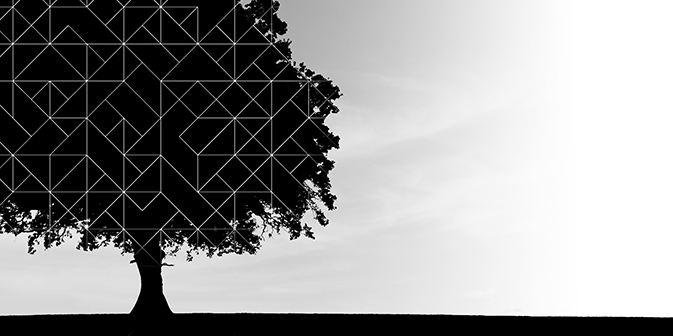
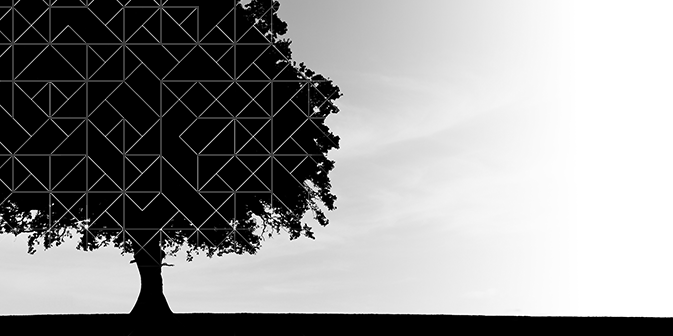
some commit :

Changed region(s): [[0.3744, 0.3274, 0.4056, 0.3571]]

diff --git a/main.js b/main.js
@@ -90,9 +90,10 @@
       } */
 
        icgbanner.startIt = function() {
-           icgbanner.slide1 =  icgbanner.drawIt(icgbanner.pattern_image,0,0,0,0);
+           icgbanner.slide1 =  icgbanner.drawIt(icgbanner.pattern_image,0,360,0,0);
            icgbanner.slide1.timeIt();
            icgbanner.t1offF(); 
+             //icgbanner.t1onF();
       }
 
        icgbanner.loadImages = function(callback) {
@@ -285,7 +286,7 @@ document.title = document[state];
 
         this.angle = angle;
         this.range = range;
-        this.r = 250;
+        this.r =10;
 
         //console.log(this,"aaaaa", this.name);
 
@@ -296,43 +297,64 @@ document.title = document[state];
 
                         icgbanner.slide_draw_TO = setTimeout(function() {
                       
-                        icgbanner.req =  window.requestAnimationFrame(icgbanner.timeIt,  icgbanner.pattern_canvas);
-                        
-                        
-                         icgbanner.pattern_context.clearRect(0, 0,  icgbanner.pattern_canvas.width,  icgbanner.pattern_canvas.height);
-                        
-                        //drawing the image
-                         icgbanner.pattern_context.drawImage( icgbanner.pimage, 0, 0);
-                        
-                         icgbanner.gradient_context.clearRect(0, 0,  icgbanner.pattern_canvas.width,  icgbanner.pattern_canvas.height);  
-                          
-                        
-                        
-                        /*> First gradient animation */
-                        
+                             icgbanner.req =  window.requestAnimationFrame(icgbanner.timeIt,  icgbanner.pattern_canvas);
+                            
+                             icgbanner.pattern_context.clearRect(0, 0,  icgbanner.pattern_canvas.width,  icgbanner.pattern_canvas.height);
+                            
+                            //drawing the image
+                             icgbanner.pattern_context.drawImage( icgbanner.pimage, 0, 0);
+                            
+                             icgbanner.gradient_context.clearRect(0, 0,  icgbanner.pattern_canvas.width,  icgbanner.pattern_canvas.height);  
+                              
+                            
+                            
+                            /*> First gradient animation */
+                            
 
-                        icgbanner.xPos = icgbanner.xPos+0.83;
-                        //vertical range of undulating
-                        icgbanner.yPos = (336/2) + Math.cos(icgbanner.angle)*(180) + icgbanner.range;
-                        //the bigger the angle increments the faster it happens
-                        icgbanner.angle+=0.050;  
+                            /*icgbanner.xPos = icgbanner.xPos+0.83;
+                              //vertical range of undulating
+                              icgbanner.yPos = (336/2) + Math.cos(icgbanner.angle)*(180) + icgbanner.range;
+                              //the bigger the angle increments the faster it happens
+                              icgbanner.angle+=0.050;  
+                              // undulating the radius of the gradient 
+                              icgbanner.r = 180 + Math.cos(icgbanner.angle)*80 ;
+                            
+                              // if off the visible area 
+                              if(icgbanner.xPos> 360) {
+                                icgbanner.angle=0;
+                                icgbanner.xPos= -25;
 
-                        //console.log("updated xpos", xPos)
-                        // undulating the radius of the gradient 
-                        icgbanner.r = 180 + Math.cos(icgbanner.angle)*80 ;
-                      
-                        // if off the visible area 
-                        if(icgbanner.xPos> 360) {
-                          icgbanner.angle=0;
-                          icgbanner.xPos= -25;
+                            } */
+                           
+                            icgbanner.xPos = 150;
+                         
+                            icgbanner.angle+=0.02;  
+                            //icgbanner.r = 240 + Math.sin(icgbanner.angle)*140 ;
+                            //icgbanner.r =icgbanner.r+2.60;
+                            //icgbanner.r = 100 + Math.sin(icgbanner.angle)*300;
+                            //icgbanner.r = ;
+                        
+                            if(icgbanner.r >=450) {
+                              //vr = (350 - icgbanner.r) * 0.03,
+                              //icgbanner.r +=vr;
+                            } else if(icgbanner.r<450) {
 
-                        } 
+                              vr = (3+ icgbanner.r) * 0.04,
+                              icgbanner.r +=vr;
 
-                        /* calling the grad continuously */
-                        icgbanner.createGrad(icgbanner.xPos,icgbanner.yPos,icgbanner.xPos2,icgbanner.yPos2,icgbanner.r, icgbanner.gradient_context);
+                              vy = (icgbanner.yPos+0.2) * 0.01;
+                              icgbanner.yPos -=vy;
+                              console.log(icgbanner.yPos);
+
+                            } 
+                           // icgbanner.yPos = icgbanner.yPos -10;
+                            //icgbanner.yPos =200+ Math.cos(icgbanner.angle)*231;
+
+                            /* calling the grad continuously */
+                            icgbanner.createGrad(icgbanner.xPos,icgbanner.yPos,icgbanner.xPos2,icgbanner.yPos2,icgbanner.r, icgbanner.gradient_context);
                  
 
-                    }, 1000/30);
+                    }, 1000/25);
 
         },
         // kills the animation process
@@ -346,38 +368,14 @@ document.title = document[state];
 
 
         }
-       ,
-
-        
-
-        /*   test */
-        this.fun1 = function () {
-
-          alert("bum");
        
 
-        } ,
-
-        this.fun2 = function () {
-
-        }
-
-        return this
+       return this
 
         
       }
 
 
-
-     // TweenLite.to(foo, 2, {alpha:0});
-
-     // TweenLite.to(anim1, 2, {alpha:0, delay:2});
-   // TweenLite.to(grad1, 2, {alpha:0});
-      //sinus undulating
-
-      //drawFrame();
-        
-      //----------timers , 
 
     
     
@@ -391,16 +389,16 @@ document.title = document[state];
          document.getElementById("banner3").style.display ="none";
           document.getElementById("banner1").style.display ="block";
 
-          TweenLite.to(icgbanner.anim1, 1, {alpha:1, delay:0}); 
-          TweenLite.to(icgbanner.grad1, 1, {alpha:1, delay:0.3});
-          TweenLite.to(icgbanner.slide_copy1,1 ,{alpha:1, delay:0})
+          TweenLite.to(icgbanner.anim1, 1.5, {alpha:1, delay:0}); 
+          TweenLite.to(icgbanner.grad1, 1.5, {alpha:1, delay:0.3});
+          TweenLite.to(icgbanner.slide_copy1,1.5 ,{alpha:1, delay:0})
           //TweenLite.to(cta1,1, {alpha:1,delay:0})
 
              //x1= 50, y1 = 0; angle =0;
 
           //drawFrame();
            //window.slide1 = drawIt(pattern_image) ;
-          icgbanner.slide1 = icgbanner.drawIt(icgbanner.pattern_image,0,0,0,0);
+          icgbanner.slide1 = icgbanner.drawIt(icgbanner.pattern_image,0,360,0,0);
           icgbanner.slide1.timeIt();
            //window.slide1().fun1();
            icgbanner.t1offF();
@@ -416,9 +414,8 @@ document.title = document[state];
            icgbanner.activeTransition="t1off";
            icgbanner.t1off = setTimeout ( function() {
 
-            //console.log("finish the first Slide1");
             
-            TweenLite.to( icgbanner.anim1, 1, {alpha:0, delay:0.6}); 
+            TweenLite.to( icgbanner.anim1, 1, {alpha:0, delay:0.4}); 
             TweenLite.to( icgbanner.grad1, 1, {alpha:0, delay:0});
             TweenLite.to( icgbanner.slide_copy1,1 ,{alpha:0, delay:0})
 
@@ -431,7 +428,7 @@ document.title = document[state];
             //cancelAnimationFrame( window.req1 );
              icgbanner.slide1.killIt();
              icgbanner.slide1 = null;
-            icgbanner.t2onF();
+             icgbanner.t2onF();
           } , 6000)
     
     }
@@ -444,14 +441,14 @@ document.title = document[state];
 
 
          icgbanner.activeTransition="t2on";
-       icgbanner.t2on = setTimeout ( function() {
+         icgbanner.t2on = setTimeout ( function() {
 
         document.getElementById("banner1").style.display ="none";
         document.getElementById("banner2").style.display ="block";
     
-        TweenLite.to( icgbanner.anim1, 1, {alpha:1, delay:0}); 
-        TweenLite.to( icgbanner.grad1, 1, {alpha:1, delay:0.3});
-        TweenLite.to( icgbanner.slide_copy1,1 ,{alpha:1, delay:0})
+        TweenLite.to( icgbanner.anim1, 1.5, {alpha:1, delay:0}); 
+        TweenLite.to( icgbanner.grad1, 1.5, {alpha:1, delay:0.3});
+        TweenLite.to( icgbanner.slide_copy1,1.5 ,{alpha:1, delay:0})
         //TweenLite.to(cta1,1, {alpha:1,delay:0})
 
         //x1= 100, y1 = 0; angle =0;
@@ -463,7 +460,7 @@ document.title = document[state];
          // slide2 = drawIt(pattern_image2) 
         //drawFrame2();
         
-         icgbanner.slide2 = icgbanner.drawIt( icgbanner.pattern_image2,100,0,0,40);
+         icgbanner.slide2 = icgbanner.drawIt( icgbanner.pattern_image2,100,360,0,40);
          icgbanner.slide2.timeIt();
        
          icgbanner.t2offF();
@@ -479,7 +476,7 @@ document.title = document[state];
 
             //console.log("finish the first Slide1");
             
-            TweenLite.to( icgbanner.anim1, 1, {alpha:0, delay:0.6}); 
+            TweenLite.to( icgbanner.anim1, 1, {alpha:0, delay:0.3}); 
             TweenLite.to( icgbanner.grad1, 1, {alpha:0, delay:0});
             TweenLite.to( icgbanner.slide_copy1,1 ,{alpha:0, delay:0})
             //TweenLite.to(cta1,1, {alpha:0,delay:0})
@@ -507,16 +504,16 @@ document.title = document[state];
         document.getElementById("banner2").style.display ="none";
         document.getElementById("banner3").style.display ="block";
 
-          TweenLite.to( icgbanner.anim1, 1, {alpha:1, delay:0}); 
-          TweenLite.to( icgbanner.grad1, 1, {alpha:1, delay:0.3});
-          TweenLite.to( icgbanner.slide_copy1,1 ,{alpha:1, delay:0})
+          TweenLite.to( icgbanner.anim1, 1.5, {alpha:1, delay:0}); 
+          TweenLite.to( icgbanner.grad1, 1.5, {alpha:1, delay:0.3});
+          TweenLite.to( icgbanner.slide_copy1,1.5 ,{alpha:1, delay:0})
           //TweenLite.to(cta1,1, {alpha:1,delay:0})
 
            //x1= 50, y1 = 0; angle =0;
            xPos =0;
          
           //drawFrame3();
-           icgbanner.slide3 = icgbanner.drawIt(icgbanner.pattern_image3,0,0,0,0);
+           icgbanner.slide3 = icgbanner.drawIt(icgbanner.pattern_image3,0,360,0,0);
            icgbanner.slide3.timeIt();
            icgbanner.t3offF();
         } , 1000)
@@ -531,7 +528,7 @@ document.title = document[state];
 
             //console.log("finish the first Slide1");
             
-            TweenLite.to( icgbanner.anim1, 1, {alpha:0, delay:0.6}); 
+            TweenLite.to( icgbanner.anim1, 1, {alpha:0, delay:0.3}); 
             TweenLite.to( icgbanner.grad1, 1, {alpha:0, delay:0});
             TweenLite.to( icgbanner.slide_copy1,1 ,{alpha:0, delay:0})
             //TweenLite.to(cta1,1, {alpha:0,delay:0})
@@ -555,42 +552,4 @@ document.title = document[state];
 
 
 
-}; //the end of window.onload function 
-
-
-
-  /*  (function() {
-    var hidden = "hidden";
-
-    // Standards:
-    if (hidden in document)
-        document.addEventListener("visibilitychange", onchange);
-    else if ((hidden = "mozHidden") in document)
-        document.addEventListener("mozvisibilitychange", onchange);
-    else if ((hidden = "webkitHidden") in document)
-        document.addEventListener("webkitvisibilitychange", onchange);
-    else if ((hidden = "msHidden") in document)
-        document.addEventListener("msvisibilitychange", onchange);
-    // IE 9 and lower:
-    else if ('onfocusin' in document)
-        document.onfocusin = document.onfocusout = onchange;
-    // All others:
-    else
-        window.onpageshow = window.onpagehide 
-            = window.onfocus = window.onblur = onchange;
-
-    function onchange (evt) {
-        var v = 'visible', h = 'hidden',
-            evtMap = { 
-                focus:v, focusin:v, pageshow:v, blur:h, focusout:h, pagehide:h 
-            };
-
-        evt = evt || window.event;
-        if (evt.type in evtMap) {
-            document.body.className = evtMap[evt.type]; window.viz = evtMap[evt.type];
-          }
-        else {        
-            document.body.className = this[hidden] ? "hidden" : "visible";
-          }
-    }
-})(); */
+}; 

diff --git a/indexB.html b/indexB.html
@@ -228,7 +228,7 @@ table {
      
       letter-spacing: -0.5px;
       line-height: 100%;
-      font-size:36px;
+      font-size:30px;
     
       font-family: 'PembrokeICG';
       margin-bottom: 20px;
@@ -254,8 +254,10 @@ table {
       padding-left:14px;padding-right:14px;
       padding-top:8px;padding-bottom:8px;
       letter-spacing: 0px;
+      line-height: 130%;
       font-size: 13px;
       float:left;
+      text-align:  left;
 
     }
 
@@ -327,17 +329,15 @@ table {
 
                   <!-- #banner1 -->
                   <div id="banner1">
-                      <div class="banner-h1">The<br/>architecture<br/>of finance</div>
+                      <div class="banner-h1">flexible capital,</br>firmly rooted</div>
 
-                      <div class="banner-cap">At ICG we look at opportunities across</br>
-                                              the capital structure, to connect</br> 
-                                              businesses to their long-term ambitions. 
+                      <div class="banner-cap"> More than asset managers, we're capital architects. </br>Welcome to ICG.
                       </div>
 
                    
                           <a href="https://www.google.co.uk/?search=#q=icg&safe=off" target="_blank">
                             <div class="banner-cta">
-                            <div class="inside">Find out how</div>
+                            <div class="inside">Find out how we build </br> opportunities for clients.</div>
                           </div>
                           </a>
                     
@@ -346,20 +346,21 @@ table {
 
                   <!-- #banner2 -->
                   <div id="banner2">
-                      <div class="banner-h1">maximum yield<br/>in a changing<br/>landscape</div>
+                      <div class="banner-h1">flexibly designed, </br> carefully constructed</div>
 
                       <div class="banner-cap">We create flexible capital for<br/>businesses across the market cycle,
                       <br/>to suit their long term ambitions. 
                       </div>
 
-                      <a href="https://www.google.co.uk/?search=#q=icg&safe=off" target="_blank"><div class="banner-cta"> Find out how</div>
+                      <a href="https://www.google.co.uk/?search=#q=icg&safe=off" target="_blank">
+                      <div class="banner-cta">   <div class="inside">Find out how we build </br> opportunities for clients.</div> </div>
                       </a>
                   </div>
                   <!-- end of #banner2 -->
 
                   <!-- #banner3 -->
                   <div id="banner3">
-                      <div class="banner-h1">local insight<br/>global reach</div>
+                      <div class="banner-h1">global strategies, </br> infused with local knowledge</div>
 
                       <div class="banner-cap">
                                               ICG is a global leader in credit markets <br/>
@@ -367,7 +368,8 @@ table {
                                               the best outcome for our clients.
                       </div>
 
-                      <a href="https://www.google.co.uk/?search=#q=icg&safe=off" target="_blank"><div class="banner-cta"> Find out how</div>
+                      <a href="https://www.google.co.uk/?search=#q=icg&safe=off" target="_blank">
+                        <div class="banner-cta">    <div class="inside">Find out how we build </br> opportunities for clients.</div> </div>
                       </a>
                   </div>
                   <!-- end of #banner3 -->
